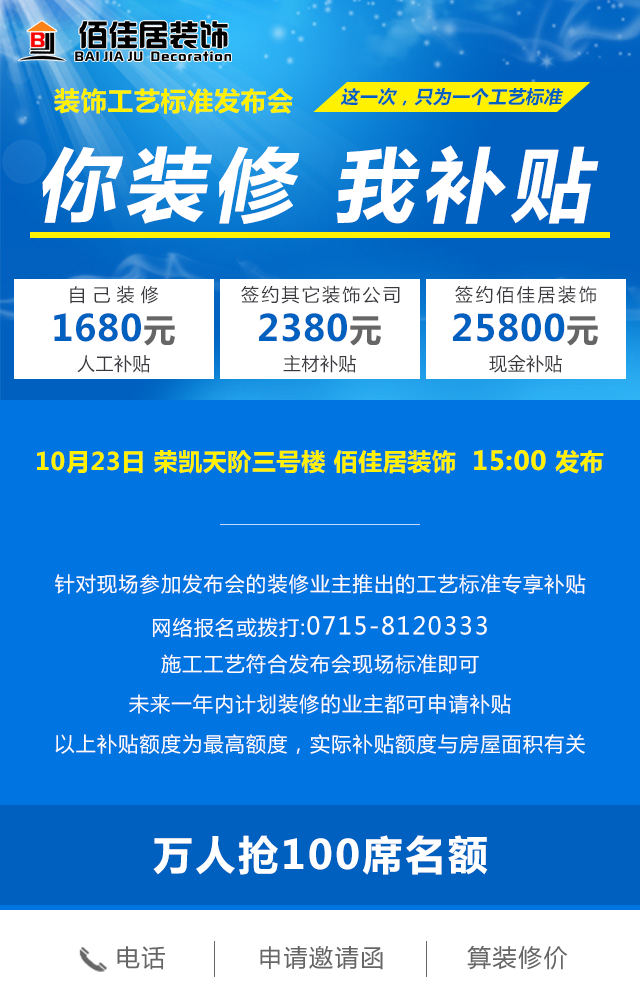
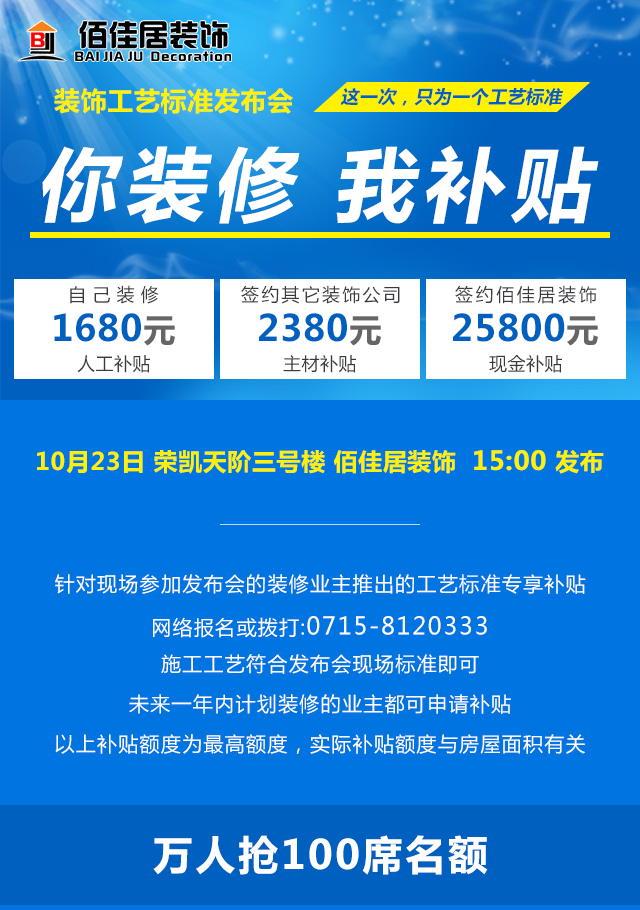
update

diff --git a/3.私活任务/佰佳居/百佳居/index.html b/3.私活任务/佰佳居/百佳居/index.html
@@ -20,9 +20,13 @@
 	<div class="wrap">
 	  <div class="main">
       <img src="img/bg.png">
-      <a href="tel:1383838438" class="abs-btn menu-btn1"></a>
-      <a href="javascript:;" class="abs-btn menu-btn2"></a>
-      <a href="javascript:;" class="abs-btn menu-btn3"></a>
+      <div class="pos-bottom">
+        <img src="img/bottom.png">
+        <a href="tel:1383838438" class="abs-btn menu-btn1"></a>
+        <a href="javascript:;" class="abs-btn menu-btn2"></a>
+        <a href="javascript:;" class="abs-btn menu-btn3"></a>
+      </div>
+      <a href="javascript:;" class="abs-btn menu-btn4"></a>
       <div class="mask menu-box2">
         <div class="pos">
           <span class="jq-close">X</span>

diff --git a/3.私活任务/佰佳居/百佳居/css/style.css b/3.私活任务/佰佳居/百佳居/css/style.css
@@ -22,7 +22,7 @@ html{
   font-family: "微软雅黑", "宋体", Arial, Helvetica, sans-serif;
   overflow: hidden;
   position: relative;
-  background: #fff; }
+  background: #0074e0; }
 .abs-btn{
   position: absolute;
   bottom: 0;
@@ -36,7 +36,9 @@ html{
   height: auto;
   margin: 0 auto;
   overflow: hidden;
-  position: relative; }
+  position: relative; 
+  padding-bottom: 60px;
+}
 
 .menu-btn1{
   
@@ -47,8 +49,20 @@ html{
 .menu-btn3{
   left: 66%;
 }
+.menu-btn4{
+  left: 0%;
+  width: 100%;
+  bottom: 60px;
+}
+.pos-bottom{
+  position: fixed;
+  bottom: 0;
+  left: 0;
+  width: 100%;
+}
 .mask{
   position: fixed;
+  display: none;
   top: 0;
   left: 0;
   width: 100%;

diff --git a/3.私活任务/佰佳居/百佳居/js/main.js b/3.私活任务/佰佳居/百佳居/js/main.js
@@ -2,10 +2,10 @@ $(function(){
   $(".jq-close").click(function(){
     $(".mask").hide();
   });
-  $(".menu-btn2").click(function(){
+  $(".menu-btn2,.menu-btn4").click(function(){
     $(".menu-box2").show();
   });
-	$(".menu-btn3").click(function(){
+  $(".menu-btn3").click(function(){
     $(".menu-box3").show();
   });
 });
